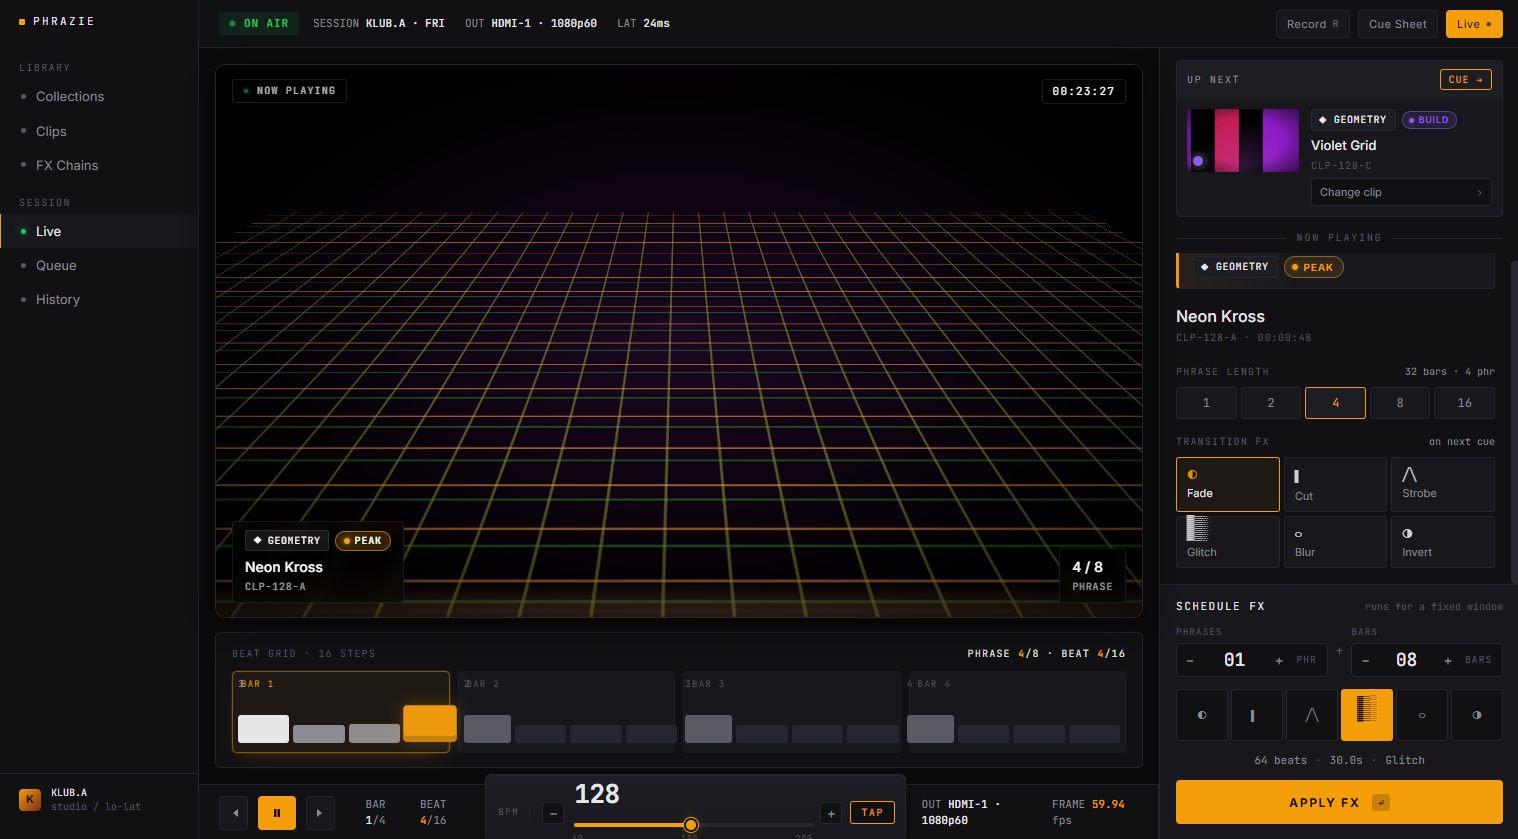
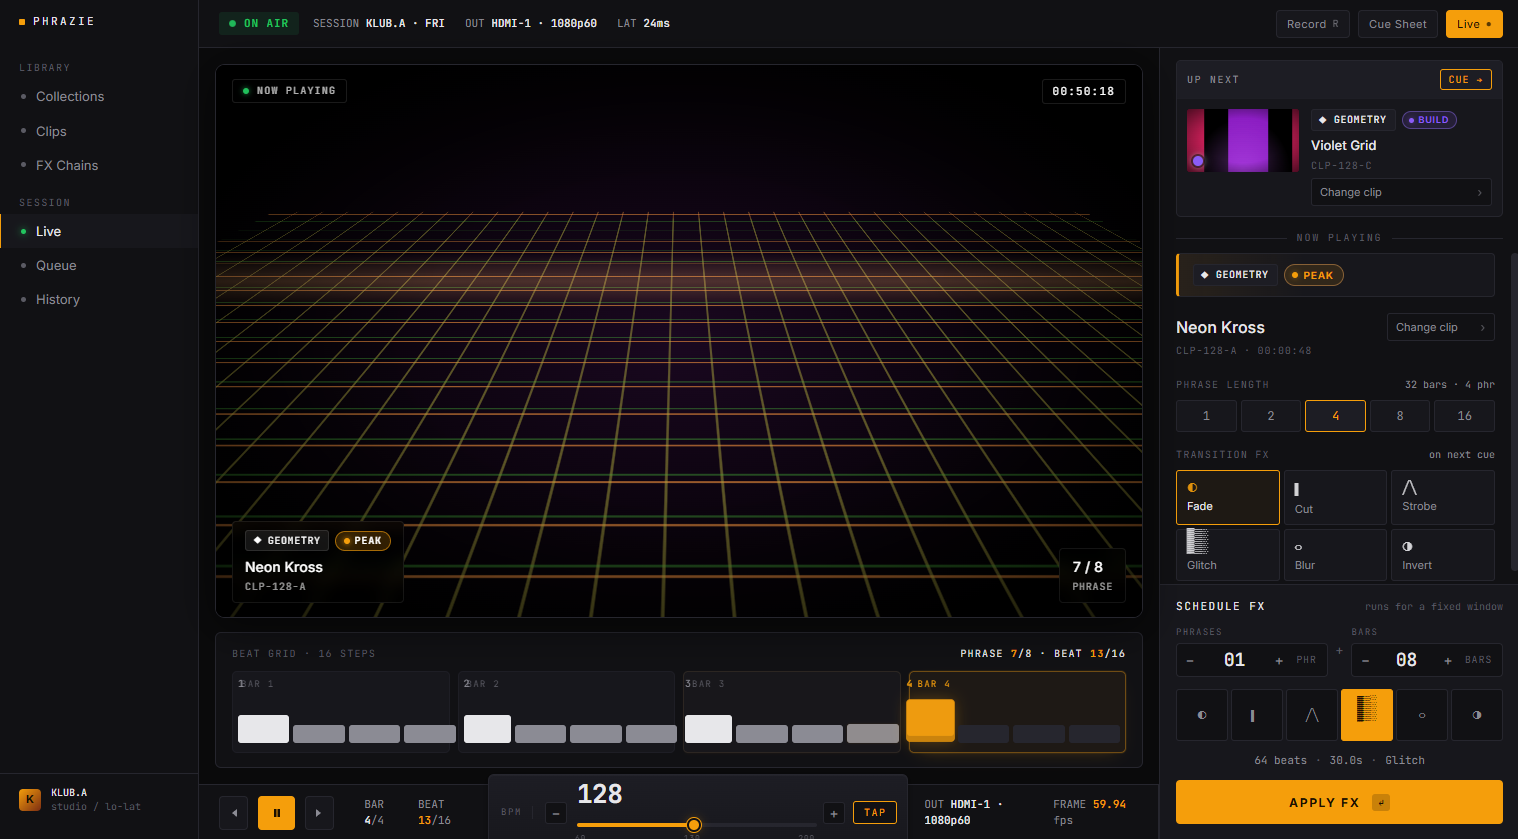
Redo the beat grid animation

diff --git a/src/Phrazie.Desktop/Controls/BeatGrid.cs b/src/Phrazie.Desktop/Controls/BeatGrid.cs
@@ -1,0 +1,165 @@
+using Avalonia;
+using Avalonia.Controls;
+using Avalonia.Media;
+
+namespace Phrazie.Desktop.Controls;
+
+/// <summary>
+/// Beat-grid visualiser: 4 bars × 4 beats, with header showing phrase and beat position.
+/// Single Render() pass — no layout elements, no allocation per frame.
+/// </summary>
+public sealed class BeatGrid : Control
+{
+    // ── Styled properties ─────────────────────────────────────────────────────
+
+    public static readonly StyledProperty<double> PhaseProperty =
+        AvaloniaProperty.Register<BeatGrid, double>(nameof(Phase), 0.0);
+
+    public static readonly StyledProperty<int> PhraseNumberProperty =
+        AvaloniaProperty.Register<BeatGrid, int>(nameof(PhraseNumber), 1);
+
+    public static readonly StyledProperty<int> TotalPhrasesProperty =
+        AvaloniaProperty.Register<BeatGrid, int>(nameof(TotalPhrases), 8);
+
+    public double Phase        { get => GetValue(PhaseProperty);        set => SetValue(PhaseProperty,        value); }
+    public int    PhraseNumber { get => GetValue(PhraseNumberProperty); set => SetValue(PhraseNumberProperty, value); }
+    public int    TotalPhrases { get => GetValue(TotalPhrasesProperty); set => SetValue(TotalPhrasesProperty, value); }
+
+    static BeatGrid()
+    {
+        AffectsRender<BeatGrid>(PhaseProperty, PhraseNumberProperty, TotalPhrasesProperty);
+    }
+
+    // ── Constants ─────────────────────────────────────────────────────────────
+
+    private const int    Bars        = 4;
+    private const int    BeatsPerBar = 4;
+    private const int    TotalBeats  = 16;
+    private const double HeaderH     = 22.0;
+    private const double BarPad      = 8.0;   // horizontal padding inside each bar
+    private const double BarGap      = 8.0;   // gap between bars
+    private const double SidePad     = 4.0;
+    private const double CellGap     = 5.0;
+    private const double BarLabelH   = 18.0;
+    private const double CellRadius  = 5.0;
+
+    // ── Pre-allocated brushes ─────────────────────────────────────────────────
+
+    private static readonly Typeface Mono = new("Consolas,monospace", FontStyle.Normal, FontWeight.Medium);
+
+    private static readonly IBrush LabelMuted  = new SolidColorBrush(Color.Parse("#8E8E93"));
+    private static readonly IBrush LabelAccent = new SolidColorBrush(Color.Parse("#FFB800"));
+
+    private static readonly IBrush PastBrush   = new SolidColorBrush(Color.Parse("#C8C8CC"));
+    private static readonly IBrush FutureBrush = new SolidColorBrush(Color.Parse("#252528"));
+    private static readonly IBrush CurrentBrush = new SolidColorBrush(Color.Parse("#FFB800"));
+
+    private static readonly IBrush BarActiveBg   = new SolidColorBrush(Color.FromArgb(18, 255, 184, 0));
+    private static readonly IBrush GlowMid       = new SolidColorBrush(Color.FromArgb(80, 255, 184, 0));
+    private static readonly Pen    ActiveBarPen  = new(new SolidColorBrush(Color.Parse("#FFB800")), 1.5);
+
+    // ── Render ────────────────────────────────────────────────────────────────
+
+    public override void Render(DrawingContext ctx)
+    {
+        var phase  = Math.Clamp(Phase, 0.0, 1.0);
+        var w      = Bounds.Width;
+        var h      = Bounds.Height;
+
+        var beatF         = phase * TotalBeats;
+        var beatIdx       = (int)beatF % TotalBeats;
+        var beatPhase     = beatF - Math.Floor(beatF);          // 0→1 within current slot
+        var currentBar    = beatIdx / BeatsPerBar;
+        var pulseT        = Math.Max(0.0, 1.0 - beatPhase / 0.35);  // sharp decay
+
+        // ── Header ─────────────────────────────────────────────────────────
+
+        DrawHeader(ctx, beatIdx);
+
+        // ── Bar sections ───────────────────────────────────────────────────
+
+        var barAreaTop = HeaderH + 4.0;
+        var barAreaH   = h - barAreaTop - 2.0;
+        var barW       = (w - SidePad * 2 - BarGap * (Bars - 1)) / Bars;
+        var cellH      = barAreaH - BarLabelH - 4.0;
+        var cellW      = (barW - BarPad * 2 - CellGap * (BeatsPerBar - 1)) / BeatsPerBar;
+
+        for (int b = 0; b < Bars; b++)
+        {
+            var barX    = SidePad + b * (barW + BarGap);
+            var barRect = new Rect(barX, barAreaTop, barW, barAreaH);
+            bool active = b == currentBar;
+
+            // Active bar: subtle bg tint + accent border
+            if (active)
+            {
+                ctx.DrawRectangle(BarActiveBg, null, new RoundedRect(barRect, 6));
+                ctx.DrawRectangle(null, ActiveBarPen, new RoundedRect(barRect.Inflate(-0.75), 5.25));
+            }
+
+            // Bar label
+            var label   = $"{b + 1}BAR {b + 1}";
+            var ftLabel = new FormattedText(label,
+                System.Globalization.CultureInfo.InvariantCulture,
+                FlowDirection.LeftToRight, Mono, 9.5,
+                active ? LabelAccent : LabelMuted);
+            ctx.DrawText(ftLabel, new Point(barX + BarPad, barAreaTop + 4.0));
+
+            // Beat cells
+            var cellTop  = barAreaTop + BarLabelH;
+            var cellLeft = barX + BarPad;
+
+            for (int c = 0; c < BeatsPerBar; c++)
+            {
+                var gbeat    = b * BeatsPerBar + c;
+                var cellX    = cellLeft + c * (cellW + CellGap);
+                var cellRect = new Rect(cellX, cellTop, cellW, cellH);
+                var rounded  = new RoundedRect(cellRect, CellRadius);
+
+                if (gbeat < beatIdx)
+                {
+                    ctx.DrawRectangle(PastBrush, null, rounded);
+                }
+                else if (gbeat == beatIdx)
+                {
+                    // Glow halo behind the cell
+                    var expand   = pulseT * 4.0;
+                    var glowRect = new RoundedRect(cellRect.Inflate(expand), CellRadius + expand * 0.4);
+                    ctx.DrawRectangle(GlowMid, null, glowRect);
+                    ctx.DrawRectangle(CurrentBrush, null, rounded);
+                }
+                else
+                {
+                    ctx.DrawRectangle(FutureBrush, null, rounded);
+                }
+            }
+        }
+    }
+
+    // ── Header drawing ────────────────────────────────────────────────────────
+
+    private void DrawHeader(DrawingContext ctx, int beatIdx)
+    {
+        const double y    = 3.0;
+        const double size = 11.0;
+        double x          = SidePad + 2.0;
+
+        x = DrawSegment(ctx, "PHRASE", LabelMuted, x, y, size);
+        x = DrawSegment(ctx, "  ", LabelMuted, x, y, size);
+        x = DrawSegment(ctx, $"{PhraseNumber}/{TotalPhrases}", LabelAccent, x, y, size);
+        x = DrawSegment(ctx, "  ·  ", LabelMuted, x, y, size);
+        x = DrawSegment(ctx, "BEAT", LabelMuted, x, y, size);
+        x = DrawSegment(ctx, "  ", LabelMuted, x, y, size);
+        DrawSegment(ctx, $"{beatIdx + 1}/{TotalBeats}", LabelAccent, x, y, size);
+    }
+
+    private static double DrawSegment(DrawingContext ctx, string text, IBrush brush,
+                                      double x, double y, double size)
+    {
+        var ft = new FormattedText(text,
+            System.Globalization.CultureInfo.InvariantCulture,
+            FlowDirection.LeftToRight, Mono, size, brush);
+        ctx.DrawText(ft, new Point(x, y));
+        return x + ft.Width;
+    }
+}

diff --git a/src/Phrazie.Desktop/ViewModels/LivePerformanceViewModel.cs b/src/Phrazie.Desktop/ViewModels/LivePerformanceViewModel.cs
@@ -63,7 +63,11 @@ public partial class LivePerformanceViewModel : ViewModelBase
 
     // ── Phrase tracker ────────────────────────────────────────────────────
 
-    [ObservableProperty] private double _currentPhase = 0.0;
+    [ObservableProperty] private double _currentPhase  = 0.0;
+    [ObservableProperty] private int    _phraseNumber  = 1;
+    public int TotalPhrases { get; } = 8;
+
+    private double _lastPhase = -1.0;
 
     // ── ctor ──────────────────────────────────────────────────────────────
 
@@ -97,9 +101,13 @@ public partial class LivePerformanceViewModel : ViewModelBase
 
         _beatClock.Bpm = Bpm;
         _beatClock.PhaseChanged += phase =>
-            Dispatcher.UIThread.Post(
-                () => CurrentPhase = phase,
-                DispatcherPriority.Render);
+            Dispatcher.UIThread.Post(() =>
+            {
+                if (_lastPhase > 0.9 && phase < 0.1)
+                    PhraseNumber = (PhraseNumber % TotalPhrases) + 1;
+                _lastPhase   = phase;
+                CurrentPhase = phase;
+            }, DispatcherPriority.Render);
         _beatClock.Start();
     }
 
